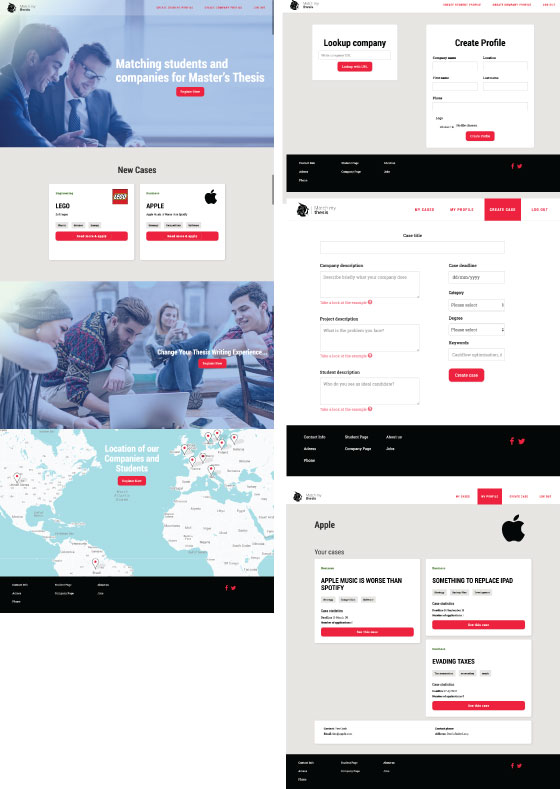
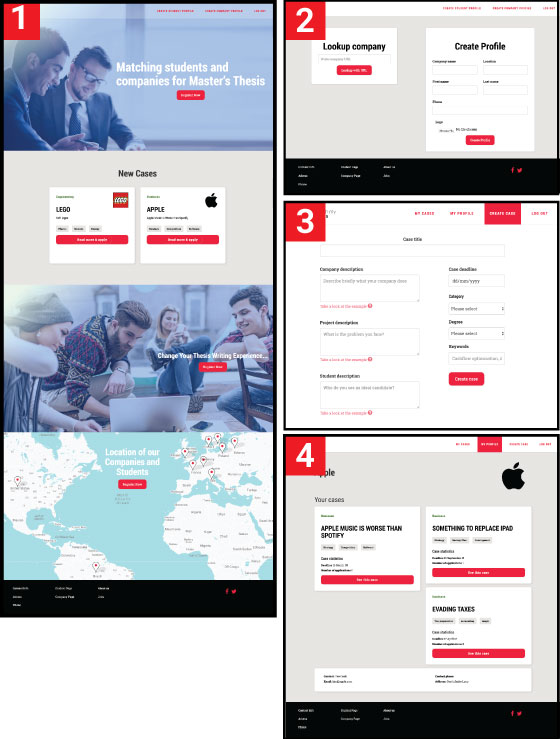
working and correct read more for mmt and incpub

diff --git a/index.html b/index.html
@@ -138,25 +138,19 @@
                                     <a name="incpublishing"></a>
                                     <a href="http://incpublishing.dk/" target="_blank">
                                         <h2>IncPublishing.dk</h2> </a>
-                                    <p>Website for a new media startup.
-                                        <br/> The client supplied the texts and photos, and I put the site together in less then a week.</p>
+                                    <p>Website for a new media startup. The client supplied the texts and photos, and I put the site together in less then a week.</p>
+
                                     <!-- start of hide show inc -->
 
-            <script>
-             function toggle_visibility(id) {
-                var e = document.getElementById(id);
-                if (e.style.display == 'block')
-                    e.style.display = 'none';
-                else
-                    e.style.display = 'block';
-            }
-            </script>
                                     <button onclick="toggle_visibility('incDiv')" class="button-more btn-block"> Click to read more about the project. Click again to hide.</button>
                                     <!-- start of mmt hide show -->
                                     <div id="incDiv" style="display: none;">
                                         <div class="borderline "> </div>
-                                        <h4>the team</h4>
-                                        <p>æjrkæleajræerjæ</p>
+                                        <h4>Second interation</h4>
+                                        <p>The client got a new logo and a new partner and wanted to redesign the site. Being that the site is built with pure HTML5 and CSS3, it is able to be updated quickly and easily. <strong> There is often no need for a blog which can drive the price of a website quite high.</p></strong>
+
+                                    <div class="card-b card-inc" style="background: url( 'images/readMoreInc.jpg'); "></div>
+
                                     </div>
                                     <!-- closing div to mmt hideshow -->
                                 </div>
@@ -178,7 +172,7 @@
                                     <div class="project-description">
                                         <a name="mmt"></a>
                                         <a href="https://matchmythesis.herokuapp.com/" target="_blank">
-                                            <h2>MatchMyThesis.com</h2></a>
+                                        <h2>MatchMyThesis.com</h2></a>
                                         <p>A prototype designed for a startup– consisting of a homepage, login forms and student and company pages. I did the wireframes and user journeys. </p>
                                 </a>
                                 <!-- new collapse -->
@@ -186,21 +180,32 @@
 
                                 <div id="mmtDiv">
                                     <div class="borderline "> </div>
-                                    <h4>the team</h4>
-                                    <p>æjrkæleajræerjæ</p>
-                                    <div class="card-team " style="background: url( 'images/mmtGroup2.jpg'); "></div>
+                                    <h4>Whitboards, wireframes and data base scheme at the start of the project</h4>
+                                    <p>1.Initial whiteboarding to start designing the flow of the App. </p>
+                                    <p>2. Wireframes of different pages</p>
+                                    <p>3. After whiteboarding we worked on sketches to visualize the database, and then "drew" it in Le Wagon's DB visualizer.</p>
+                                    <p>4. More complete wire fraames to guide me in my programing and design of the pages</p>
+                                    <div class="card-b " style="background: url( 'images/mmtReadMore1b.jpg'); "></div>
+                                    <div class="borderline "> </div>
+
+                                    <h4>During coding...</h4>
+                                    <p>1. Working in the terminal to do some magic in Ruby and Rails, and for project collaberation in Git was a part of every day for 3 weeks.</p>
+                                    <p>2. Part of a rails file used to seed the database for the first iteration and presentation of our app.</p>
+                                    <p>3. Working on the HTMl and CSS in Chrome's dev tools.</p> <br>
+
+                                    <div class="card-comp-screens " style="background: url( 'images/mmtReadMore4.jpg'); "></div>
+
                                     <div class="borderline "> </div>
                                     <h4>Screenshots of app pages designed and programed for the first presentation of the project (3 weeks after start date)</h4>
-                                    <p>A bit more info about the project will go here. klfdafkæ jfkdsæaf fjdkslæadf fdjksaæfdj fjdksæafdjks fjdksaæfdjkl fjdkslæafjkl fjdklsæalkfjd fjkdæsafjkl fjkdlsæafjkl</p>
+                                    <p>1. Home screen for webapp. In the nav bar the user has the ability to create a profile (either as a student or a company) and log in our log out. The first banner has a call to action (register). The second banner shows a few of the most recent cases. The third banner is a call to action as a student to register. The final banner is a map showing where Match My Thesis' companies and students are found in the world.</p><br>
                                     <div class="card-c " style="background: url( 'images/mmtreadMore2b.jpg'); "></div>
-                                    <div class="borderline "> </div>
-                                    <h4>Whitboards, wireframes and data base scheme at the start of the project</h4>
-                                    <p>1.læsajfæ fjdksæafjkl fdjklsæafk </p>
-                                    <div class="card-b " style="background: url( 'images/mmtReadMore1b.jpg'); "></div>
-                                    <div class="borderline "></div>
-                                    <h4>jfkdæsajkflæ fjdklæsafjkadlsæ</h4>
-                                    <p>jfklædsajkfæd fjkdlæsafkjdlæas fjdklæsafjk</p>
-                                    <div class="card-comp-screens " style="background: url( 'images/mmtReadMore4.jpg'); "></div>
+
+                                    <div class="borderline"></div>
+                                    <h4>The Team</h4>
+                                    <p>Kris Kibutis, Nathan Kuik and myself, Marci Papineau</p>
+                                    <div class="card-team" style="background: url( 'images/mmtGroup2.jpg'); "></div>
+
+
                                 </div>
                                 <!-- closing div to mmt hideshow -->
                                 </div>
@@ -431,21 +436,21 @@
                 </div>
             </div>
         </div>
+                    <script>
+             function toggle_visibility(id) {
+                var e = document.getElementById(id);
+                if (e.style.display == 'block')
+                    e.style.display = 'none';
+                else
+                    e.style.display = 'block';
+            }
+            </script>
         <!-- Including Bootstrap JS (with its jQuery dependency) so that dynamic components work -->
         <script async src="//platform.twitter.com/widgets.js " charset="utf-8 "></script>
         <script src="https://ajax.googleapis.com/ajax/libs/jquery/1.11.1/jquery.min.js "></script>
         <script src="scroll.js " </script>
 
 
-        <script>
-             function toggle_visibility(id) {
-                var e = document.getElementById('id');
-                if (e.style.display == 'block') {
-                    e.style.display = 'none';
-                } else {
-                    e.style.display = 'block';
-            }
-        </script>
 
         <script src="https://maxcdn.bootstrapcdn.com/bootstrap/3.2.0/js/bootstrap.min.js "></script>
 </body>

diff --git a/css/components/card.css b/css/components/card.css
@@ -37,17 +37,20 @@
 */  margin:10px 0px;
 }
 
+.card-inc  {
+    height: 647px;
 
+}
 
 .card-c {
-  height: 707px;
+  height: 663px;
 /*  text-shadow: 0 1px 3px rgba(0,0,0,0.6);
 */  background-size: cover !important;
   position: relative;
   border-radius: 5px;
    background-repeat: no-repeat;
 /*  margin-bottom: 20px;
-*/  margin:40px 0px;
+margin:40px 0px;
 /*    transition: transform 1s;
 */}
 
@@ -106,12 +109,12 @@
 }
 
 .project-description p {
-  font-size: 13px;
+  font-size: 14px;
   color: black;
   margin-top: 0px;
   margin-bottom: -3px;
-  letter-spacing: 1.5px;
-  line-height: 25px;
+/*  letter-spacing: 1.5px;
+*/  line-height: 25px;
 }
 
 

diff --git a/css/style.css b/css/style.css
@@ -23,9 +23,10 @@ h5 {
  font-size: 15px;
 }
 p {
-  font-family: 'Crete Round', serif;
-  letter-spacing: 1.2px;
-}
+    font-family: 'Roboto', sans-serif;
+/*    letter-spacing: 1.2px;
+*/}
+
 p.italic {
  font-style: italic;
 }
